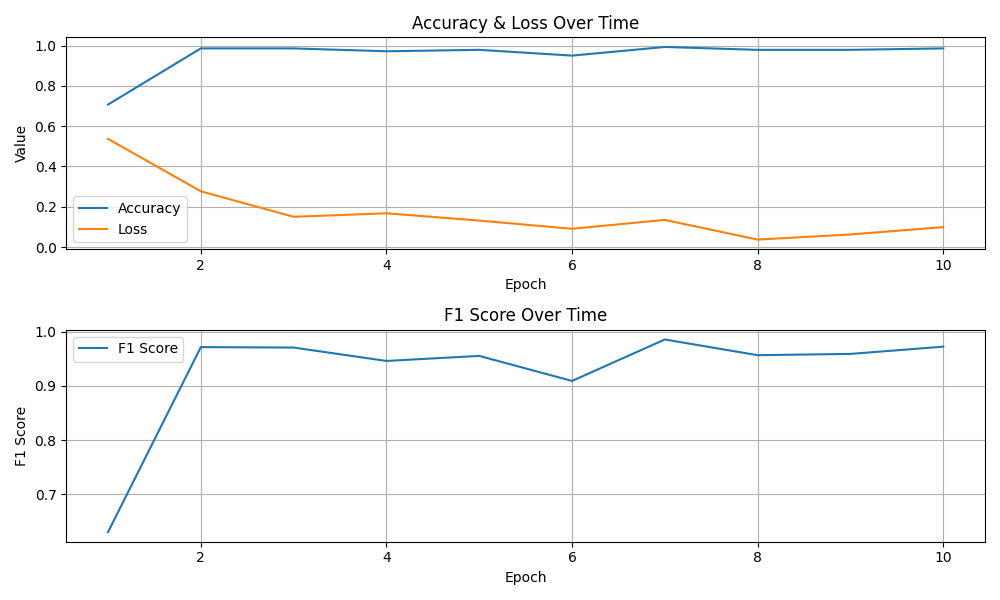
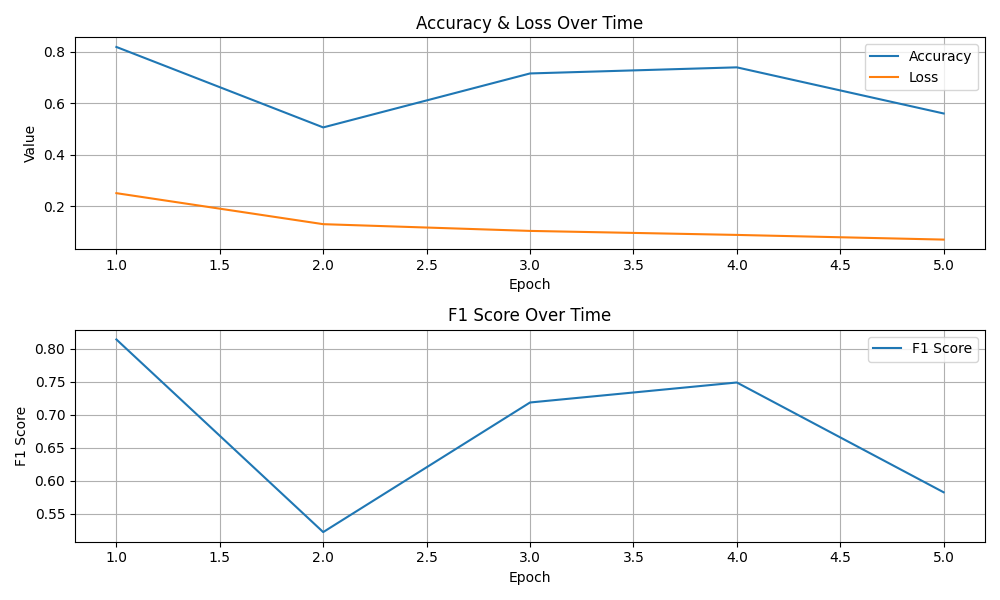
New Focal Crit

diff --git a/ssi_implimentation.py b/ssi_implimentation.py
@@ -246,6 +246,19 @@ def summarySave(finalLoss, model):
 def sigmoid(x):
     return 1/(1+np.exp(-x))
 
+def customCriterion(logits, y, alpha=None, gamma=2.0):
+    ce_loss = F.cross_entropy(logits, y, reduction='none')  # [batch]
+    probs = F.softmax(logits, dim=1)
+    pt = probs[range(len(y)), y]  
+    
+    focal_weight = (1 - pt) ** gamma
+    loss = focal_weight * ce_loss
+    
+    if alpha is not None:
+        loss = loss * alpha[y]
+    
+    return loss.mean()
+
 # This is the main training and evaluation loop
 def train_model(model, trainLoader, testLoader, device, epochs=165, lr=0.0005):
     # Compute class weights based on training labels
@@ -288,7 +301,7 @@ def train_model(model, trainLoader, testLoader, device, epochs=165, lr=0.0005):
             logits = model(x)
 
             # Adding a custom penalty to help with the class imbalance
-            base_loss = criterion(logits, y)
+            base_loss = customCriterion(logits, y)
             probs = F.softmax(logits, dim=1)
 
             confidence_penalty = (1 - probs[range(len(y)), y]) 

diff --git a/result_verification.py b/result_verification.py
@@ -221,16 +221,18 @@ def main():
 
     do_single = True
     if do_single:
-        confusion_matrix = [
-        [6701,  668,   6,   0, 1125, 256, 1836],
-        [4768, 9291,   0,   0,  103,   0,    3],
-        [   0,    0, 1446, 153,    0, 188,    0],
-        [   0,    0,   32, 103,    0,   2,    0],
-        [  30,   47,    0,   0,  397,   0,    0],
-        [   1,    0,  304,  24,    9, 530,    0],
-        [   0,    0,    0,   0,    0,   0, 1025],
-    ]
+        matrix = [
+            [6345, 1323,    0,    0,  829,  265, 1830],
+            [2621, 11538,   0,    0,    6,    0,    0],
+            [   0,    0, 1768,    8,    0,   11,    0],
+            [   0,    0,  102,   35,    0,    0,    0],
+            [  25,  326,    0,    0,  123,    0,    0],
+            [   0,    0,  842,    1,   20,    5,    0],
+            [  39,    0,    0,    0,    0,    0,  986],
+        ]
 
 
-        print(calc_score(confusion_matrix))
+
+
+        print(calc_score(matrix))
 main()
